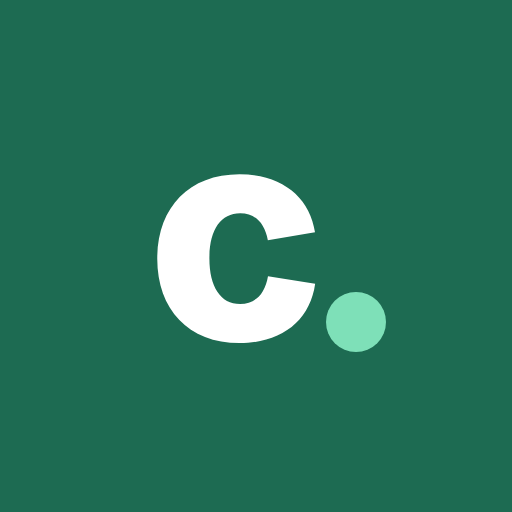
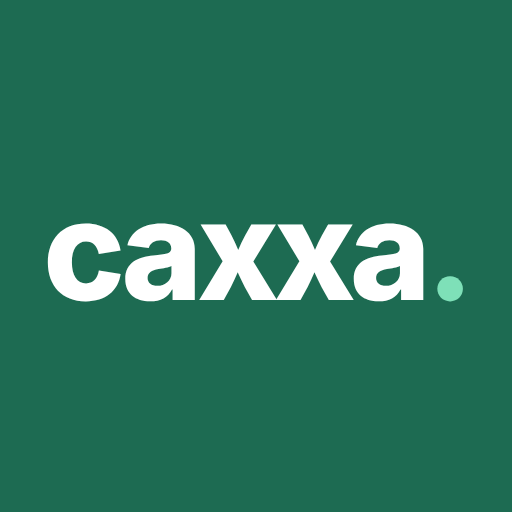
Ícone da tela inicial com o nome completo "caxxa."
- apple-touch-icon, icon-192/512 e maskable com o logotipo "caxxa.";
  favicon 32px continua "c." (o nome não é legível nesse tamanho)
- Manifesto só com PNG (o Android não troca pelo SVG), nome "caxxa" e
  ?v=2 nos endereços para o celular não reaproveitar o ícone antigo

Claude-Session: https://claude.ai/code/session_01DK2SZhY4eRwbGAmdJ74naJ

Changed region(s): [[0.0938, 0.3125, 0.9062, 0.6875]]

diff --git a/index.html b/index.html
@@ -6,12 +6,12 @@
     <meta name="theme-color" content="#1d6b52" />
     <meta name="apple-mobile-web-app-capable" content="yes" />
     <meta name="apple-mobile-web-app-status-bar-style" content="default" />
-    <meta name="apple-mobile-web-app-title" content="Caxxa" />
-    <link rel="manifest" href="/manifest.webmanifest" />
+    <meta name="apple-mobile-web-app-title" content="caxxa" />
+    <link rel="manifest" href="/manifest.webmanifest?v=2" />
     <link rel="icon" href="/icon.svg" type="image/svg+xml" />
-    <link rel="icon" href="/favicon-32.png" type="image/png" sizes="32x32" />
+    <link rel="icon" href="/favicon-32.png?v=2" type="image/png" sizes="32x32" />
     <!-- iPhone/iPad: só aceita PNG; sem ele, usa uma captura da página como ícone -->
-    <link rel="apple-touch-icon" sizes="180x180" href="/apple-touch-icon.png" />
+    <link rel="apple-touch-icon" sizes="180x180" href="/apple-touch-icon.png?v=2" />
     <title>Caxxa — Finanças pessoais</title>
   </head>
   <body>
